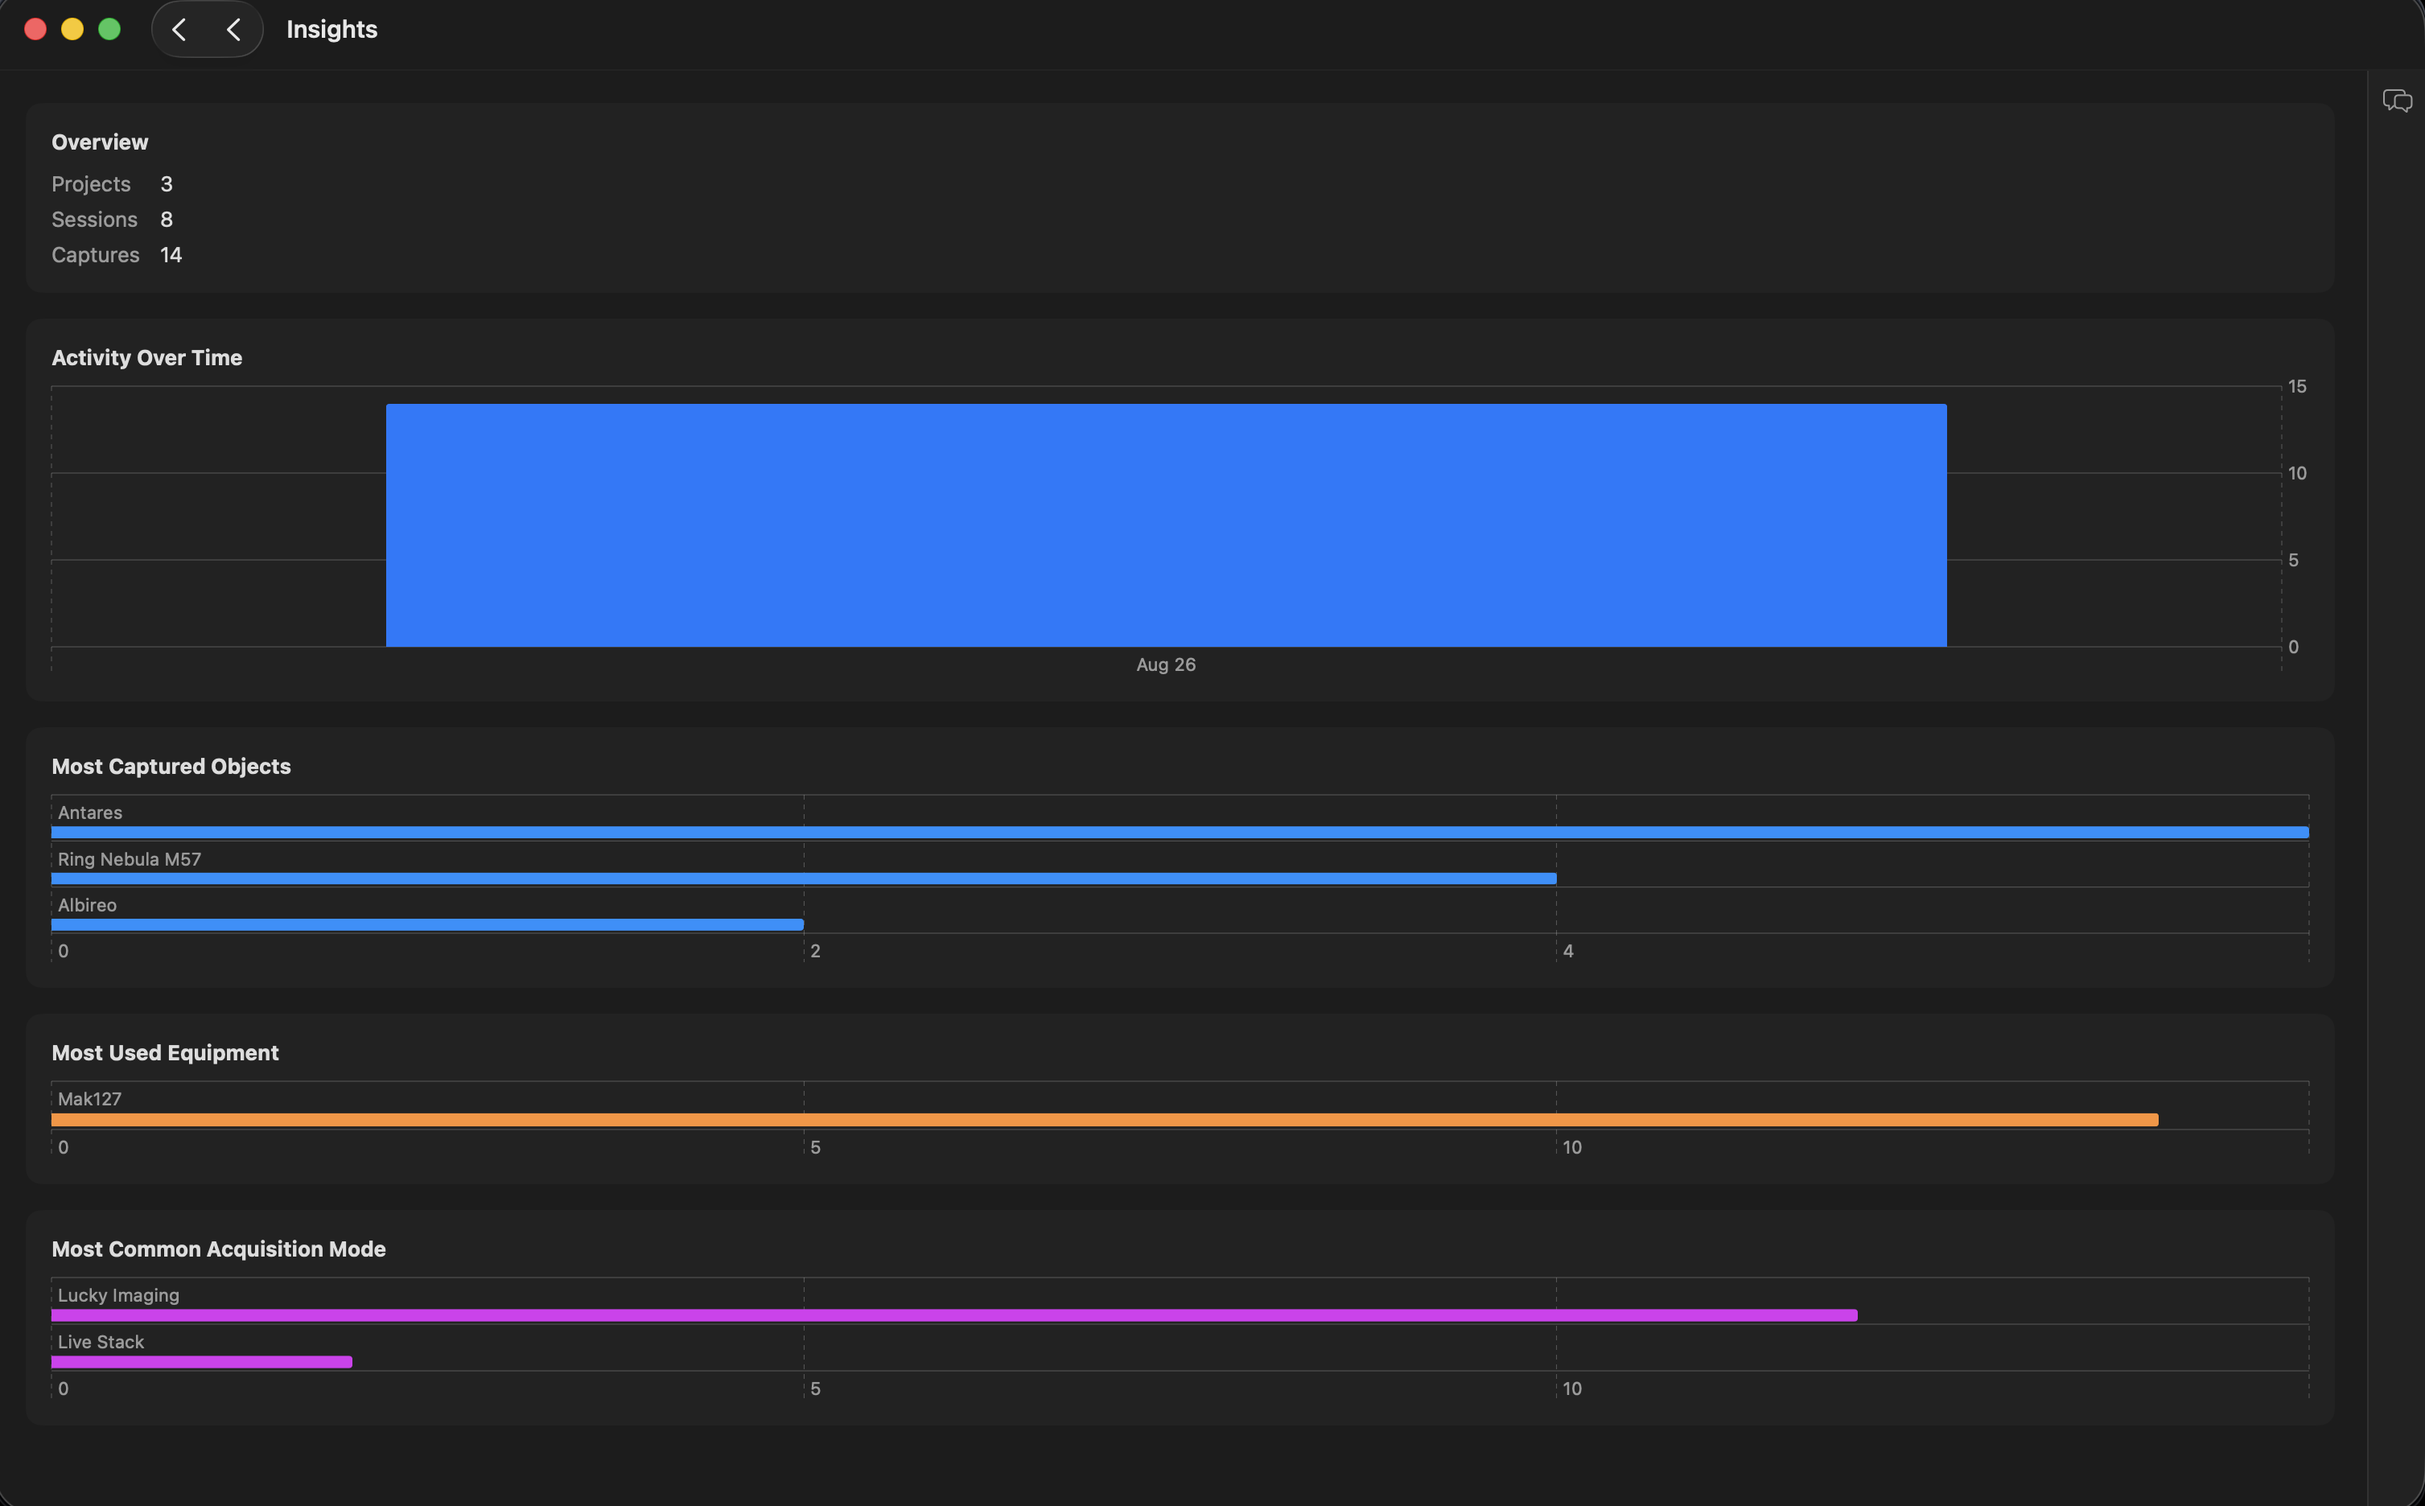
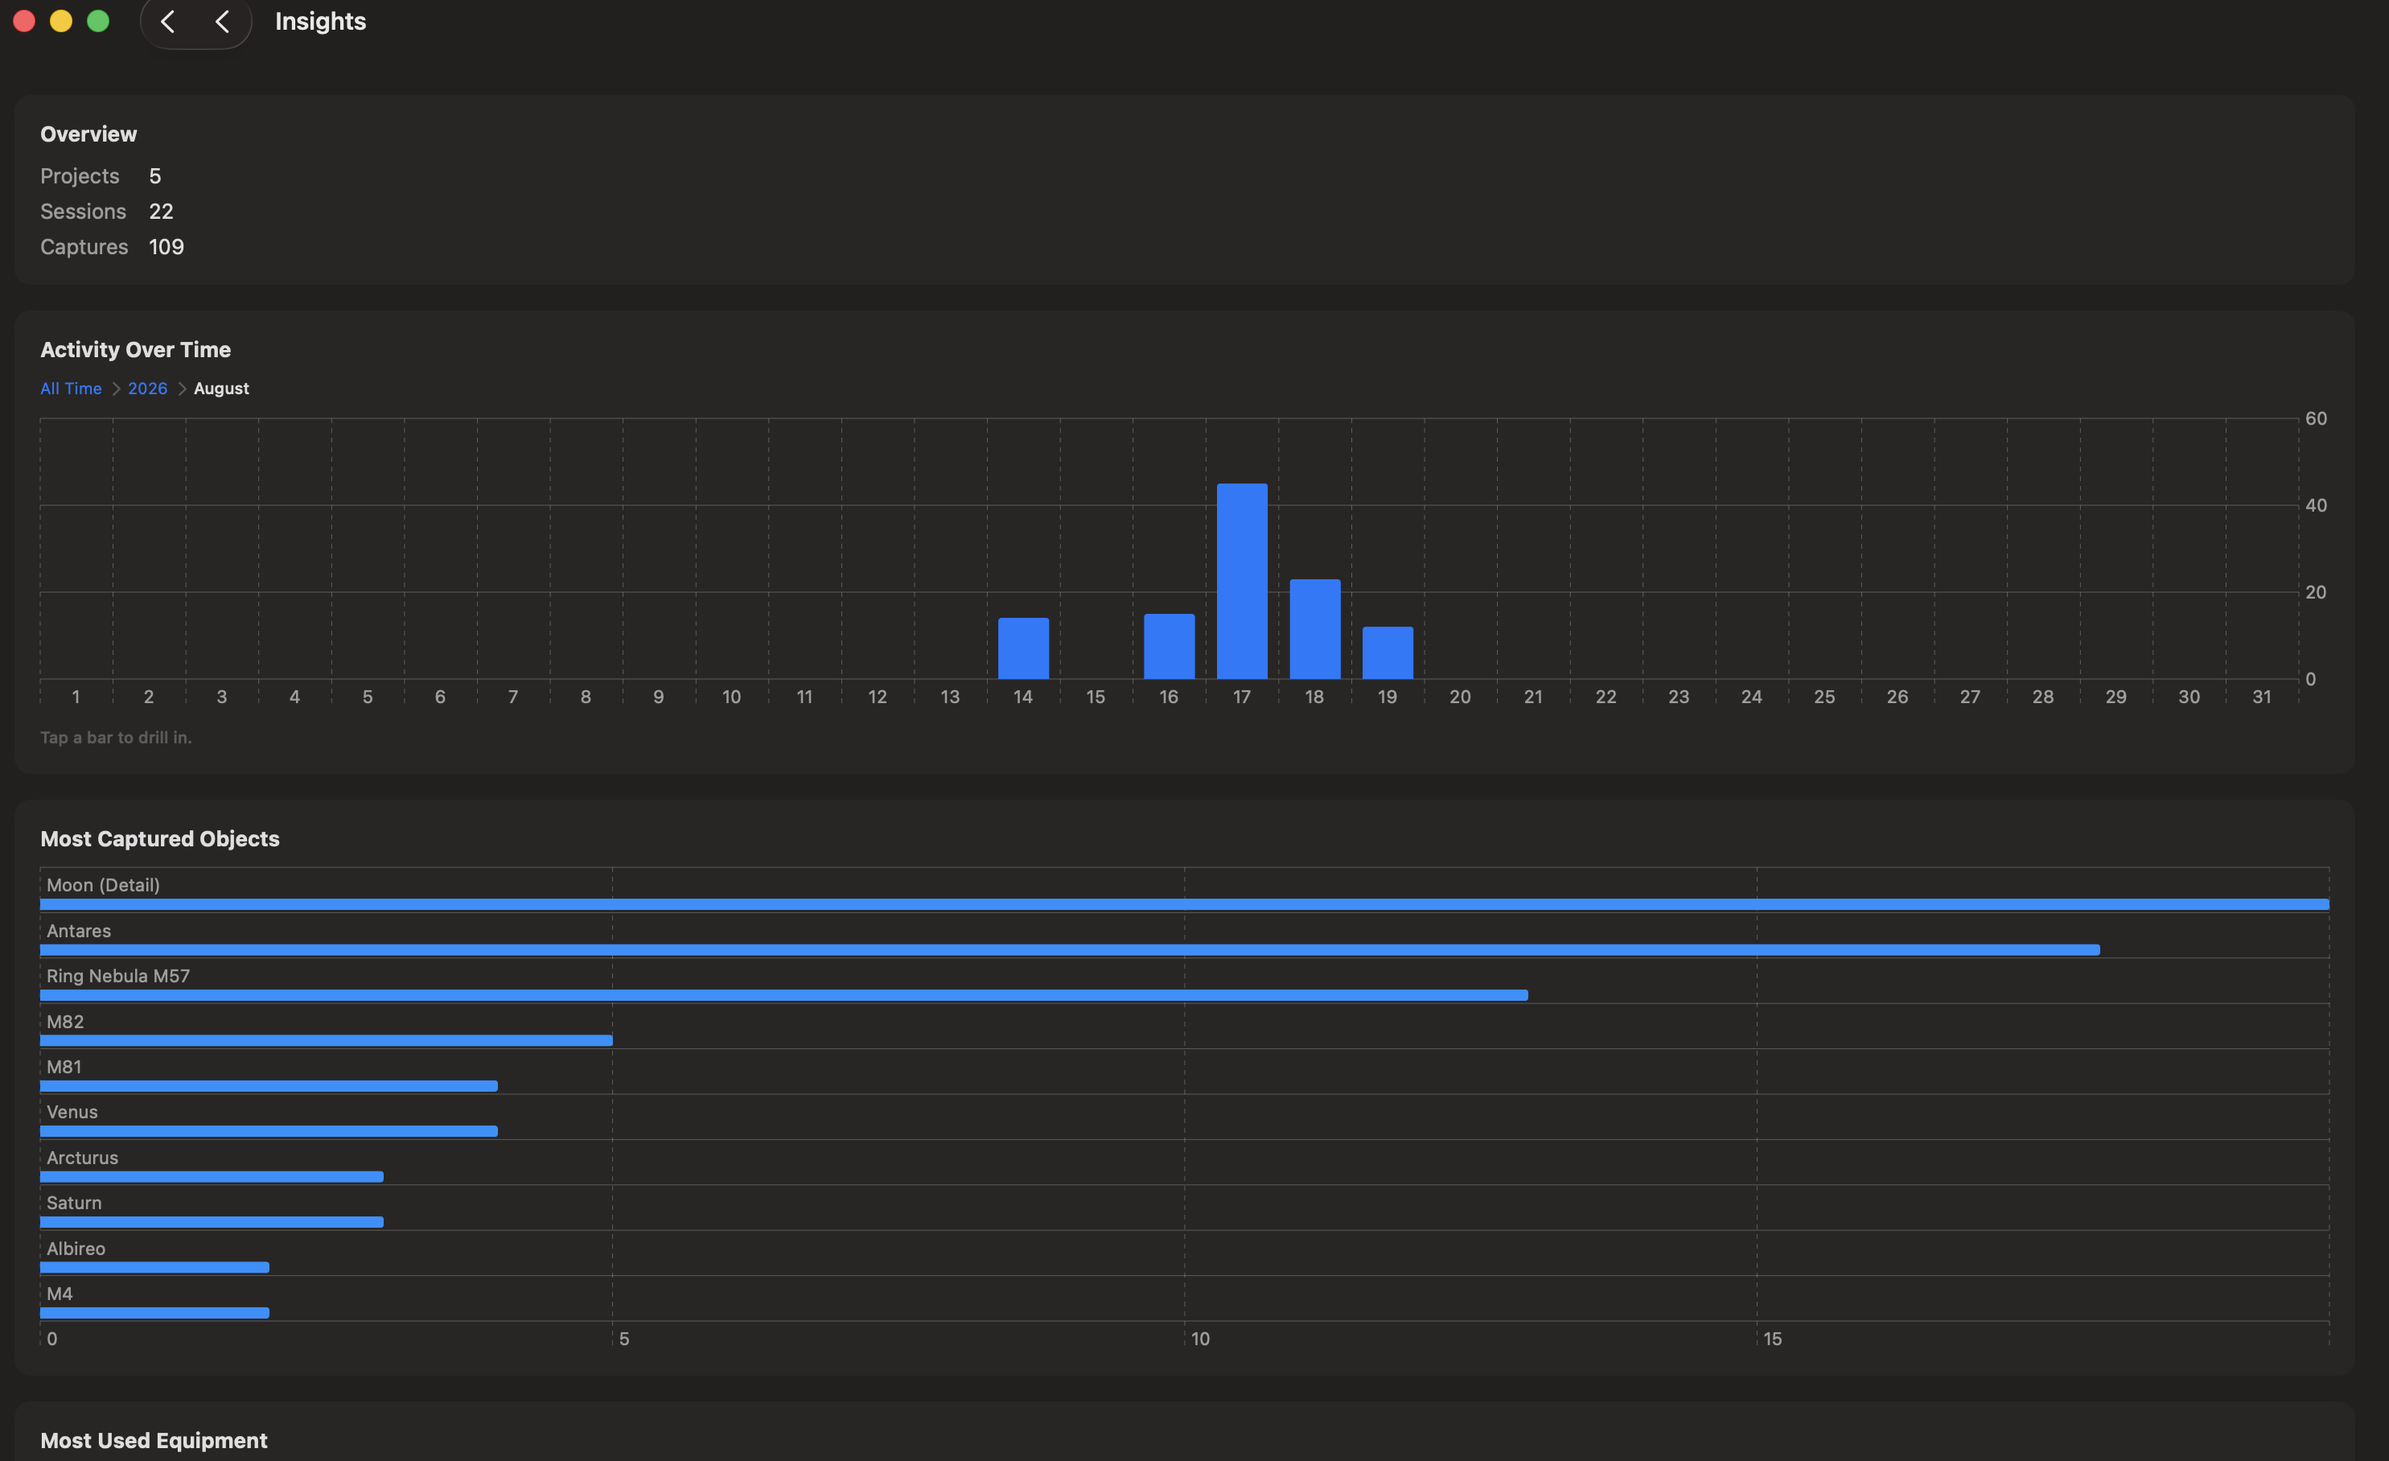
Release v0.5.0
Bumps MARKETING_VERSION to 0.5.0 and folds the Unreleased changelog under a dated 0.5.0
heading. Adds new example screenshots (Home Timeline, Edit Image, Capture Detail's Edit Image
button, Session Detail, sending a capture to Siril) and documents the release's headline
features — native Planetary Post-Processing, Edit Image, Live Capture, and the reworked
Observation Timeline — in the README and docs/features.md, which had no coverage of Siril/
GraXpert integration or the post-processing tools at all until now.

diff --git a/README.md b/README.md
@@ -366,8 +366,9 @@ Clicking any session — run or not — opens its own full-width Session page (a
 Project Detail and Capture pages — no capped/centered `Form` margins
 anywhere in the browser); the camera view only ever opens via an explicit
 Run/Resume button, never just by tapping a row. Each session gets its own
-folder for captures and settings, a timeline of thumbnails (most recent on
-the left, each with its capture kind and, if present, a note underneath),
+folder for captures and settings, a timeline of thumbnails (oldest to most
+recent, left to right, matching the Home page's own Observation Timeline;
+each with its capture kind and, if present, a note underneath),
 tags, notes, and GPS or hand-entered location, plus a full History
 (date/time, position, aim, objects) and a capture-count Stats breakdown
 shown in a real resizable/auto-sizing `Table`, not a cramped fixed grid.
@@ -406,6 +407,43 @@ table: an **Atlas** — every session across every project plotted on a
 right-ascension/declination sky chart by its planned target's real position
 (matched against the app's own bundled Messier/Caldwell/bright-star catalog), filterable
 by project, object, or date range, with a tap to jump straight to that session.
+
+### Post-processing and editing
+
+Every capture's context menu (Session timeline, Capture Detail page) offers
+tools for turning a raw capture into a finished image, without leaving the
+app:
+
+- **Post-Process…**, on any `.ser` recording — a native planetary/lunar
+  lucky-imaging pipeline: quality-scoring and registration against the
+  sharpest frame, median/mean stacking of whichever fraction scored best,
+  à trous multi-scale wavelet sharpening, RGB channel alignment, and
+  auto-stretch. Runs as a background, cancellable job with live progress,
+  GPU-accelerated where available, with an optional pass through
+  [GraXpert](https://www.graxpert.com) (star reduction/deconvolution/
+  background extraction) without leaving the modal.
+- **Edit Image…**, on any single FITS/PNG/TIFF capture — brightness,
+  contrast, saturation, a gamma curve, crop, rotate, sharpen, denoise, and
+  three astrophotography-specific tools: green color-cast removal (SCNR),
+  star-size reduction, and shadow/highlight recovery. A one-tap **Magic
+  Wand** auto-fix picks a starting point, every slider has its own reset,
+  and a zoom/pan control checks the result at real pixel scale. Saves as a
+  new **Elaborated Image** alongside the original.
+- **Live Capture** — like an iPhone Live Photo: buffers a few seconds of
+  the live feed, then scrub through every frame it captured and export
+  whichever one actually looked sharpest, instead of timing one manual
+  capture.
+- **Open in Siril…**, on a session or a raw FITS/`.ser` capture — hands it
+  to a locally-installed copy of [Siril](https://siril.org)'s command-line
+  tool for stacking/registration/stretching (single-frame debayer+stretch,
+  planetary stack-without-registration, or deep-sky register+stack,
+  auto-suggested from the target but always overridable), bringing the
+  result back into the project's own **Elaborated** section. Off by
+  default — enable it in Settings, since Siril itself is a separate app,
+  not bundled.
+
+See the [Screenshots](#screenshots) section below for Edit Image and Siril
+in action.
 
 ### AI panel
 
@@ -462,14 +500,15 @@ first time each is used; declining either leaves the rest of the app unaffected.
 ## Screenshots
 
 A quick visual tour of the app itself, following the same path as
-[Using Skyformac](#using-skyformac) above — the Dashboard, Quick Start, a
-project's own page (with its zoomable Activity Timeline), a session's page and
-capture timeline, a single capture's detail page (Camera Settings, Prev/Next),
-Insights, and an Equipment system.
+[Using Skyformac](#using-skyformac) above — the Dashboard and its
+Observation Timeline, Quick Start, a project's own page (with its zoomable
+Activity Timeline), a session's page and capture timeline, a single
+capture's detail page (Camera Settings, Prev/Next), Edit Image, sending a
+capture to Siril, Insights, and an Equipment system.
 
 <table>
 <tr>
-<td width="50%"><img src="examples/Home Page.png" alt="Dashboard/Home page"></td>
+<td width="50%"><img src="examples/New Timeline.png" alt="Dashboard/Home page with the Observation Timeline"></td>
 <td width="50%"><img src="examples/Quick Start.png" alt="Quick Start target picker"></td>
 </tr>
 <tr>
@@ -482,11 +521,15 @@ Insights, and an Equipment system.
 </tr>
 <tr>
 <td width="50%"><img src="examples/Nebula Capture.png" alt="Capture Detail page with Camera Settings and Prev/Next"></td>
-<td width="50%"><img src="examples/Stats.png" alt="Insights page"></td>
+<td width="50%"><img src="examples/Direct Edit SIngle Capture Image.png" alt="Capture Detail page with the Edit Image button"></td>
 </tr>
 <tr>
+<td width="50%"><img src="examples/Edit Image And Save in project.png" alt="Edit Image — crop, rotate, color, clean-up, and astronomy tools"></td>
+<td width="50%"><img src="examples/Send to Siril via CLI or UI.png" alt="Sending a Moon SER recording to Siril for planetary stacking"></td>
+</tr>
+<tr>
+<td width="50%"><img src="examples/Stats.png" alt="Insights page"></td>
 <td width="50%"><img src="examples/Equipment.png" alt="An equipment system's detail page"></td>
-<td width="50%"></td>
 </tr>
 </table>
 

diff --git a/EXAMPLES.md b/EXAMPLES.md
@@ -31,12 +31,17 @@ Screens of the app itself, rather than a captured target — shown in the README
 | File | Page | Notes |
 | --- | --- | --- |
 | [`Home Page.png`](<examples/Home Page.png>) | Dashboard/Home | "Resume Where You Left Off," Common Tasks, Recent Projects, Highlighted Sessions. |
+| [`New Timeline.png`](<examples/New Timeline.png>) | Dashboard/Home (Observation Timeline) | The Home page's own zoomable timeline — big date header, count-based spacing (not proportional to real elapsed time), and a zoom slider. |
 | [`Quick Start.png`](<examples/Quick Start.png>) | Quick Start picker | Over the Projects grid — Planets & Moon and Deep Sky target lists. |
 | [`Project.png`](examples/Project.png) | Project Detail | Stats, the zoomable Activity Timeline chart, Equipment, Tags. |
 | [`Sessions.png`](examples/Sessions.png) | Project Detail (session list) | Tags/Notes, and every session with a one-click Resume. |
 | [`Sessions Details.ong.png`](<examples/Sessions Details.ong.png>) | Session Detail | Aim/Objects/Location, Run/Recall Parameters/New Session Like This/Ask AI, History, Stats. |
-| [`Session Capture Timeline.png`](<examples/Session Capture Timeline.png>) | Session Detail (timeline) | The capture filmstrip, newest first, each with its own plain-English note. |
+| [`Session Capture Timeline.png`](<examples/Session Capture Timeline.png>) | Session Detail (timeline) | The capture filmstrip, oldest to most recent, each with its own plain-English note. |
+| [`New Project  Home.png`](<examples/New Project  Home.png>) | Session Detail | Cover, Session Summary, History/Equipment/Stats/Tags, and the capture Timeline together on one page (M110 session). |
 | [`Nebula Capture.png`](<examples/Nebula Capture.png>) | Capture Detail | Full preview with Prev/Next overlay buttons, plus the per-capture Camera Settings (mode/gain/exposure). |
+| [`Direct Edit SIngle Capture Image.png`](<examples/Direct Edit SIngle Capture Image.png>) | Capture Detail | The "Edit Image…" action alongside Open/Show in Finder/Move/Split/Delete. |
+| [`Edit Image And Save in project.png`](<examples/Edit Image And Save in project.png>) | Edit Image | GPU-backed crop/rotate/color/curves, Magic Wand auto-fix, denoise, hot-pixel clean-up, and the astronomy-specific tools (green-cast removal, star-size reduction, shadow/highlight recovery). |
+| [`Send to Siril via CLI or UI.png`](<examples/Send to Siril via CLI or UI.png>) | Elaborate with Siril | Planetary vs. Deep Sky recipe, crop-to-region, and Siril's own stacking-rejection parameters, for a Moon `.ser` recording. |
 | [`Stats.png`](examples/Stats.png) | Insights | Overview, Activity Over Time, Most Captured Objects, Most Used Equipment, Most Common Acquisition Mode. |
 | [`Equipment.png`](examples/Equipment.png) | Equipment system detail | Camera/Mount/Optical Tube sections for one named system. |
 

diff --git a/docs/features.md b/docs/features.md
@@ -430,10 +430,14 @@ session persistence design and the browser-as-main-window architecture)
   Capture pages show the same breakdown scoped to that one session
   (`StatsGridView`, shared across all three).
 - **Timelines with thumbnails** — every session shows its captures as a
-  filmstrip, most recent on the left, each thumbnail wide enough to show the
+  filmstrip, oldest to most recent left to right (matching the Home page's
+  own Observation Timeline), each thumbnail wide enough to show the
   capture kind (FITS/PNG/TIFF/SER Video/Recording) and, if present, its own
   plain-English note underneath the date — the iMovie-style browsing this
-  feature is built around.
+  feature is built around. The Home page's own Observation Timeline merges
+  every session's captures across every project into one zoomable strip,
+  spaced by capture count rather than real elapsed time so a quiet week
+  between sessions never eats screen space.
 - **Plain-English capture notes, and a full record for later analysis** —
   every capture automatically gets a short human-readable note of what
   actually happened when it was taken — "Captured Saturn in Live Stack as

diff --git a/CHANGELOG.md b/CHANGELOG.md
@@ -7,12 +7,15 @@ single-developer app, not a library with a public API.
 
 **[Unreleased]** is the `master`/dev branch — updated continuously as work lands,
 with everything folded under a proper version heading (and dated) only once it's
-actually tagged. Tags on GitHub: [v0.4.0](https://github.com/giulioroggero/skyformac/releases/tag/v0.4.0),
+actually tagged. Tags on GitHub: [v0.5.0](https://github.com/giulioroggero/skyformac/releases/tag/v0.5.0),
+[v0.4.0](https://github.com/giulioroggero/skyformac/releases/tag/v0.4.0),
 [v0.3.0](https://github.com/giulioroggero/skyformac/releases/tag/v0.3.0),
 [v0.2.0](https://github.com/giulioroggero/skyformac/releases/tag/v0.2.0),
 [v0.1.12](https://github.com/giulioroggero/skyformac/releases/tag/v0.1.12).
 
 ## [Unreleased]
+
+## [0.5.0] - 2026-08-21
 
 ### Added
 - A native Planetary/Lunar Post-Processing pipeline for `.ser` captures ("Post-Process…"):
